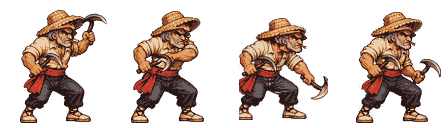
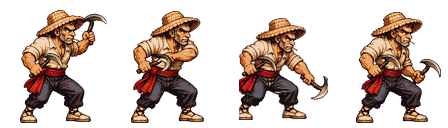
03I.2: sustituir sprites de ataque para eliminar superposición facial
* Corregir sprites de corbelles sin superponer dos rostros

* Sustituir realmente los dos sprites por versiones sin cara superpuesta

* Actualizar versionado de recursos para evitar sprites antiguos en caché

* Actualizar versionado de recursos para evitar sprites antiguos en caché

diff --git a/index.html b/index.html
@@ -4,8 +4,8 @@
   <meta charset="UTF-8" />
   <meta name="viewport" content="width=device-width, initial-scale=1, viewport-fit=cover" />
   <meta name="theme-color" content="#143b3b" />
-  <title>La Colla de la Paella · Paso 03I.1</title>
-  <link rel="stylesheet" href="style.css?v=03i1" />
+  <title>La Colla de la Paella · Paso 03I.2</title>
+  <link rel="stylesheet" href="style.css?v=03i2" />
 </head>
 <body>
 <main class="game-shell">
@@ -32,10 +32,10 @@
   </section>
   <footer><span id="coordinates">Posición: 120, 365</span><strong id="state">Estado: IDLE</strong><strong id="combo">Combo: —</strong><strong id="animation-label">Sprite: IDLE 1/4</strong><span id="status">Derrota al ladrón antes de recoger el arroz.</span></footer>
 </main>
-<script src="src/config.js?v=03i1" defer></script>
-<script src="src/combat.js?v=03i1" defer></script>
-<script src="src/animation.js?v=03i1" defer></script>
-<script src="src/combo.js?v=03i1" defer></script>
-<script src="src/game.js?v=03i1" defer></script>
+<script src="src/config.js?v=03i2" defer></script>
+<script src="src/combat.js?v=03i2" defer></script>
+<script src="src/animation.js?v=03i2" defer></script>
+<script src="src/combo.js?v=03i2" defer></script>
+<script src="src/game.js?v=03i2" defer></script>
 </body>
 </html>

diff --git a/src/game.js b/src/game.js
@@ -1,5 +1,5 @@
 /*
- LA COLLA DE LA PAELLA · PASO 03I.1
+ LA COLLA DE LA PAELLA · PASO 03I.2
  Aprende: bucle de juego, delta, teclas, controles táctiles,
  movimiento normalizado, Canvas 2D y detección de proximidad.
 */
@@ -37,9 +37,9 @@
   const walkV3Image = new Image();
   walkV3Image.src = 'assets/llaurador_walk_v3.png?v=03c3';
   const leftAttackImage = new Image();
-  leftAttackImage.src = 'assets/llaurador_attack_izquierda.png?v=03i1';
+  leftAttackImage.src = 'assets/llaurador_attack_izquierda.png?v=03i2';
   const rightAttackImage = new Image();
-  rightAttackImage.src = 'assets/llaurador_attack_derecha.png?v=03i1';
+  rightAttackImage.src = 'assets/llaurador_attack_derecha.png?v=03i2';
   const kickImage = new Image();
   kickImage.src = 'assets/llaurador_patada.png?v=03h';
   // Si la imagen no carga, el personaje sigue visible con el dibujo Canvas de respaldo.
